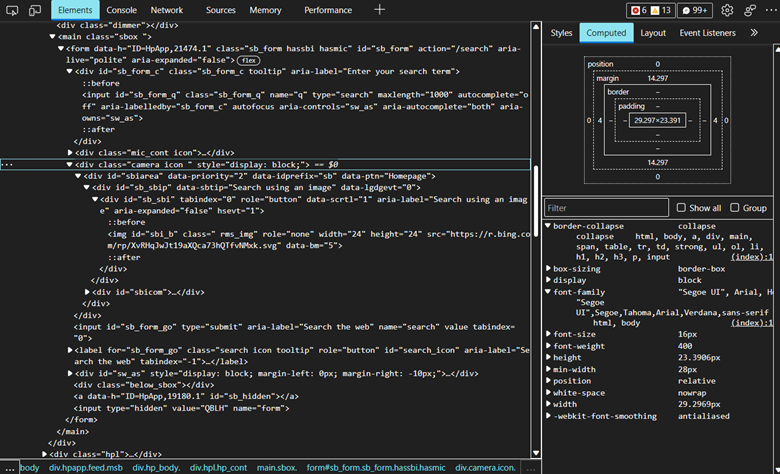
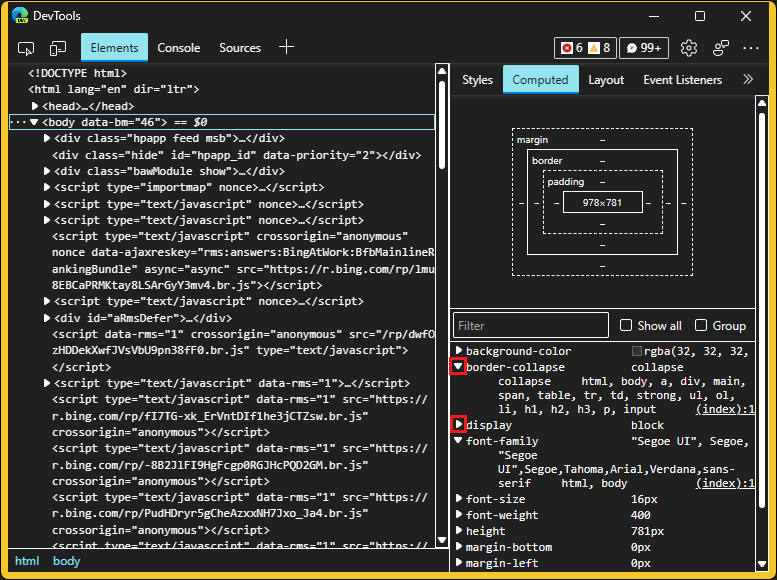
Red boxes around expand arrows

diff --git a/microsoft-edge/devtools-guide-chromium/whats-new/2022/09/devtools-106.md b/microsoft-edge/devtools-guide-chromium/whats-new/2022/09/devtools-106.md
@@ -15,8 +15,7 @@ ms.date: 09/29/2022
 <!-- ====================================================================== -->
 ## Introducing the Command Palette
 
-<!-- Subtitle: Your favorite commands in one place. -->
-<!--           Your favorite browser and DevTools commands in one place. -->
+<!-- Subtitle: Your favorite browser management and DevTools commands in one place. -->
 
 Command Palette makes it possible to access browser management and developer tools commands with just one keyboard shortcut: `Ctrl`+`Shift`+`Spacebar`.  To access the available browser management commands and DevTools commands, press `Ctrl`+`Shift`+`Spacebar`, and then start typing.  The commands are filtered based on your input characters:
 
@@ -62,8 +61,6 @@ To access the **Quick Fix** options:
    -->
 
 1. Select whichever **Quick Fix** you want to use to resolve the issue or to stop reporting it as an issue.  Selecting to ignore the issue automatically creates a `.hintrc` file which tells the extension to ignore this issue type and not report it again.
-      
-<!-- see att. -->
 
 See also:
 * [Automated Quick Fixes and issue filtering](../../../../visual-studio-code/microsoft-edge-devtools-extension.md#automated-quick-fixes-and-issue-filtering) in _Microsoft Edge DevTools extension for Visual Studio Code_
@@ -142,20 +139,9 @@ See also:
 In high contrast mode, in previous versions of Microsoft Edge, the expand and collapse buttons for computed styles didn't render correctly, in the **Computed** tab in the **Elements** tool.  In Microsoft Edge 106, this issue has been fixed.  The expand and collapse buttons are now visible in high contrast mode:
  
 ![Computed styles in high contrast mode](./devtools-106-images/computed-styles-high-contrast-mode.png)
-<!-- If you want to recreate this image:
-1.	Open Windows settings > Accessibility > Contrast themes
-2.	Under **Contrast themes**, select **Aquatic** and **Apply**
-3.	Open Edge and navigate to some website. I used: Bing
-4.	Open DevTools
-5.	Navigate to the Elements tool
-6.	Open the **Computed** section in the **Styles** pane
-7.	Take screenshot and draw red highlight boxes around the triangle expand/collapse arrows under the **Filter** textbox. I would also recommend expanding and collapsing some of the styles. -->
-
-<!-- Video recording of feature in action
-See attachments. looking for better way to show how Voiceover reads out the Dock Location and Activity Bar Location buttons on macOS but that might make a better video -->
 
 See also:
-* [Windows High contrast mode](/fluent-ui/web-components/design-system/high-contrast)
+* [Windows high contrast mode](/fluent-ui/web-components/design-system/high-contrast)
 
 
 <!-- ====================================================================== -->
